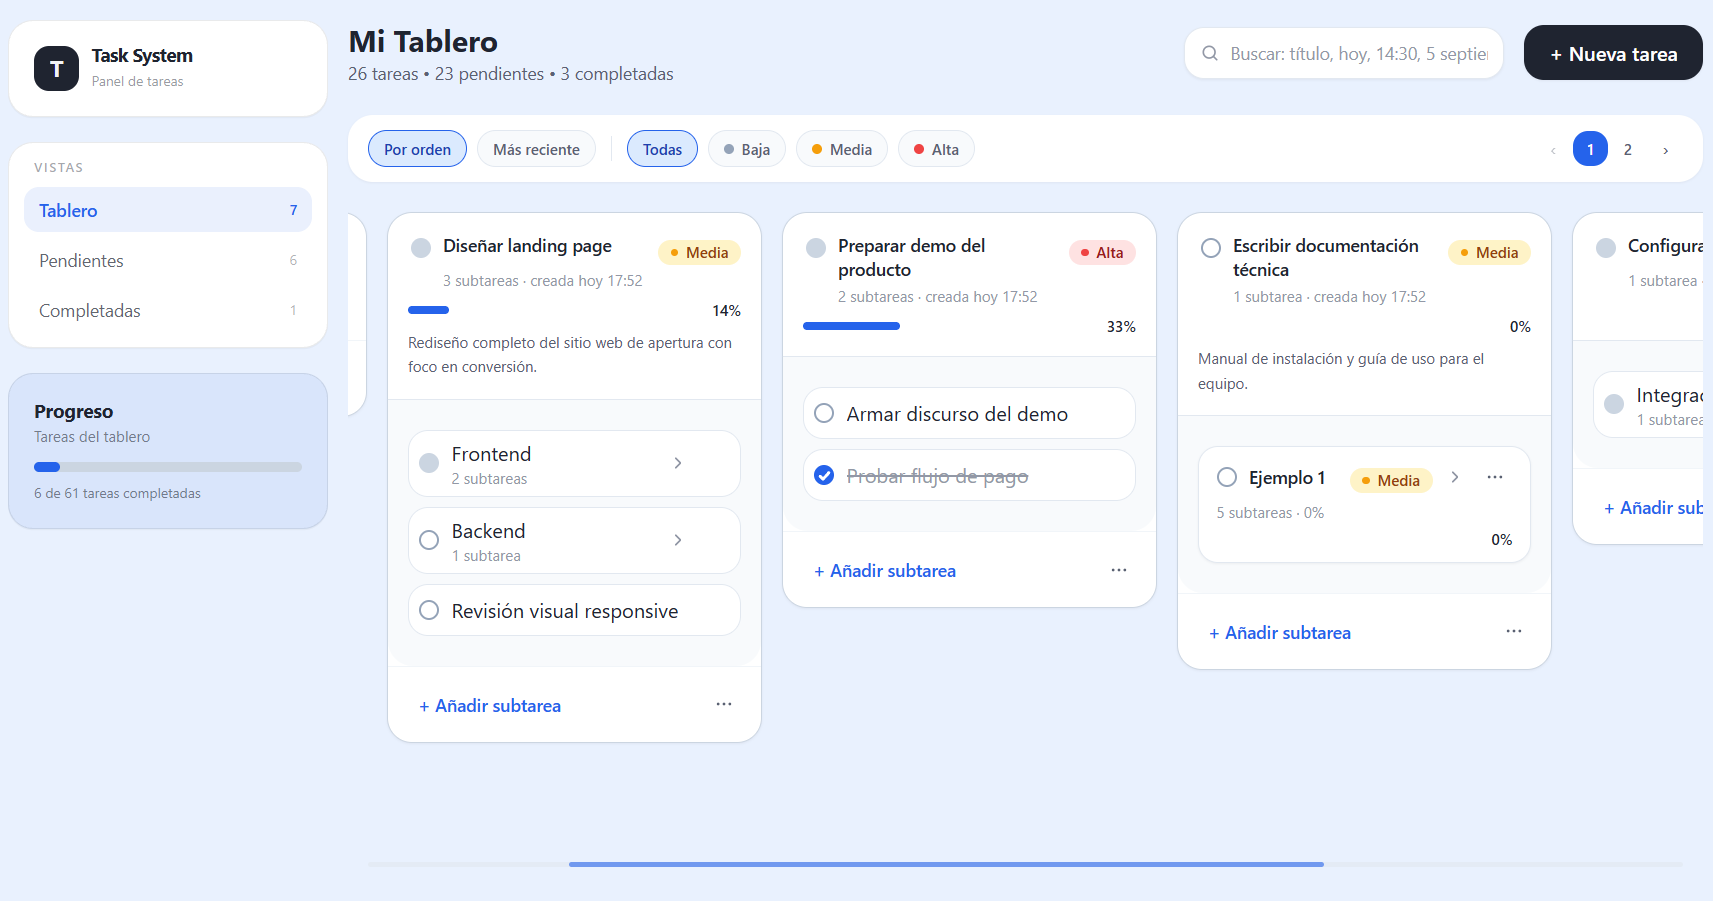
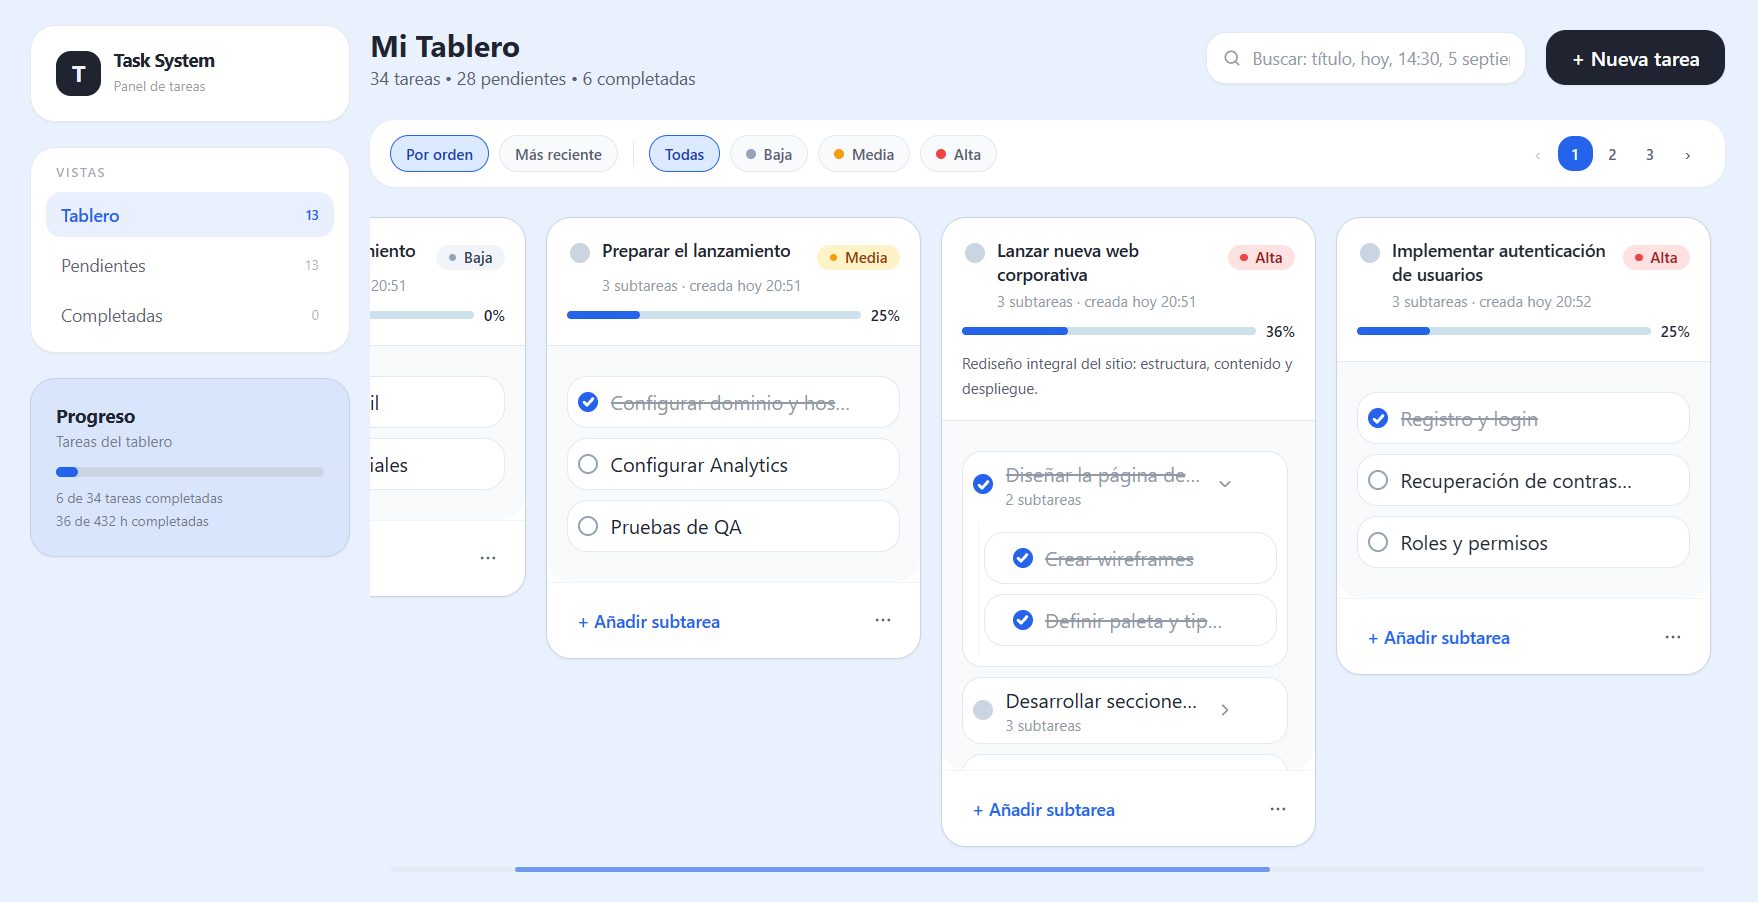
docs: README con capturas y docs alineados a estimaciones

diff --git a/docs/ai-usage.md b/docs/ai-usage.md
@@ -477,11 +477,10 @@ manuales de estilo y UX (prompt ejecutado por el desarrollador), que no
 se registran como prompts independientes: indicadores de estado más
 grandes y claros, ciclo de estado automático que promueve una tarea
 padre a "En progreso" cuando una subtarea se completa, scroll
-horizontal con arrastre del mouse, rediseño del resumen de esfuerzo con
-barras segmentadas, selects personalizados y ajustes de layout y color
-azulado en los contenedores de progreso. La estimación en horas se
-eliminó de la vista porque no resultó funcional para el uso real de la
-aplicación.
+horizontal con arrastre del mouse, selects personalizados y ajustes de
+layout y color azulado en los contenedores de progreso. La estimación
+en horas se mantiene en la vista porque el challenge exige reflejar la
+carga de trabajo a partir del campo de estimación.
 
 ### 9. Persistencia con PostgreSQL y Docker Compose
 
@@ -500,25 +499,48 @@ Implementá la persistencia con PostgreSQL y el montaje con Docker Compose para 
 10. NO commitees nada hasta que yo lo pida.
 ```
 
-### 10. Eliminación del resumen de esfuerzo en horas
+### 10. Reincorporación de estimaciones de esfuerzo
 
 ```
-La aplicación no maneja estimaciones de esfuerzo en horas: el avance se
-representa con la barra de progreso de cada tarea y su subárbol.
+El challenge exige que la aplicación ayude a entender la carga de
+trabajo usando el campo de estimación (esfuerzo en horas), considerando
+toda la jerarquía de subtareas, y combinando la cantidad de tareas y las
+horas estimadas.
 
-Quiero quitar el código muerto relacionado con horas del frontend:
+Quiero volver a manejar las estimaciones sin sobrecargar la UI:
 
-- Eliminar `frontend/src/components/EffortSummaryStrip.tsx`.
-- Eliminar `frontend/src/utils/effort.ts` y `frontend/src/utils/effort.test.ts`.
-- Eliminar la interfaz `EffortSummary` de `frontend/src/types/task.ts`.
-- Eliminar del backend los métodos no expuestos por la API
-  `getSubtreeEstimate` y `getEffortSummary` de
-  `backend/src/services/taskService.ts`, el tipo `EffortSummary` de
-  `backend/src/types/task.ts` y sus tests en `taskService.test.ts`.
-- Actualizar `docs/requirements.md` para que no exija resumen de
-  esfuerzo ni estimaciones visibles en la interfaz (mantener la
-  estimación como campo opcional e informativo).
-- Alinear `README.md` y `docs/architecture.md` con esta decisión.
+- Backend: restaurar `EffortSummary` (backend/src/types/task.ts) y los
+  métodos `getSubtreeEstimate` y `getEffortSummary`
+  (backend/src/services/taskService.ts) con sus tests.
+- Frontend: restaurar `EffortSummary` (frontend/src/types/task.ts) y
+  `frontend/src/utils/effort.ts` con sus tests.
+- Agregar el campo "Estimación (horas)" opcional en el formulario de
+  tareas (frontend/src/components/TaskForm.tsx) con validación no
+  negativa en tiempo real (incluye rechazar el "-" sin necesidad de
+  enviar el formulario).
+- Mostrar en el sidebar un único card de Progreso con barra única
+  ponderada (80% estimación en horas y 20% cantidad de tareas) y dos
+  líneas: "X de X tareas completadas" e "X de X h completadas".
+- En el detalle de una tarea mostrar "Estimación: Xh" con la suma de las
+  horas propias más las de todo su subárbol.
+- Alinear docs/requirements.md, docs/architecture.md y README.md.
+
+NO commitees nada hasta que yo lo pida.
+```
+
+### 11. Validación en tiempo real de título y estimación
+
+```
+Quiero validación en vivo en los formularios, similar a la del título:
+
+- Al hacer click en el campo de título y dejarlo vacío (blur) debe
+  mostrar "El título es obligatorio", y revalidar mientras se escribe.
+- Al escribir un "-" en la estimación debe aparecer en el momento
+  "La estimación no puede ser negativa". Se usa type="text" con
+  inputMode="decimal" porque type="number" descarta el "-" y nunca
+  dispara la validación en vivo.
+- Aplicado en TaskForm, CreateTaskModal (modal y agregador de
+  subtareas) e InlineSubtaskForm.
 
 NO commitees nada hasta que yo lo pida.
 ```

diff --git a/docs/architecture.md b/docs/architecture.md
@@ -54,8 +54,8 @@ traduce las acciones del usuario en llamadas HTTP.
 - Exponer una API REST CRUD para tareas.
 - Aplicar validación de datos (título obligatorio y no solo espacios,
   estimación no negativa, etc.).
-- Implementar la lógica de negocio: jerarquía de subtareas, orden y
-  eliminación en cascada.
+- Implementar la lógica de negocio: jerarquía de subtareas, orden,
+  eliminación en cascada y cálculos de estimaciones.
 - Orquestar las operaciones de persistencia a través de repositorios.
 - No depender directamente de la implementación concreta de
   PostgreSQL.
@@ -141,7 +141,7 @@ La separación entre capas sigue un flujo descendente:
   básica de entrada, invocan los métodos de los services y construyen
   las respuestas HTTP.
 - **Services:** contienen la lógica de negocio (validaciones, reglas
-  de jerarquía, eliminación en cascada).
+  de jerarquía, cálculo de estimaciones, eliminación en cascada).
   No conocen detalles de Express ni de PostgreSQL.
 - **Repositories:** abstraen el acceso a datos detrás de una interfaz.
   La lógica de negocio depende solo de esa interfaz.
@@ -163,9 +163,10 @@ La jerarquía se representa con el campo `parentTaskId`:
 El orden dentro de cada nivel jerárquico se maneja con el campo
 `position`.
 
-Las operaciones que requieren conocer la jerarquía completa (eliminar
-en cascada, construir el árbol para la vista) se resuelven en la capa
-de servicios a partir de los datos provistos por los repositorios.
+Las operaciones que requieren conocer la jerarquía completa (calcular
+estimaciones, eliminar en cascada, construir el árbol para la vista) se
+resuelven en la capa de servicios a partir de los datos provistos por
+los repositorios.
 
 ---
 
@@ -189,8 +190,9 @@ hacia PostgreSQL sin modificar la lógica de negocio.
 ## 10. Organización de los tests
 
 - **Tests unitarios de lógica de negocio (Vitest):** cubren las reglas
-  de los services: validación de tareas, jerarquía, eliminación de
-  descendientes, estados y prioridades.
+  de los services: validación de tareas, estimaciones, jerarquía,
+  cálculo recursivo de estimaciones, eliminación de descendientes,
+  estados y prioridades.
 - **Tests de API (Vitest + Supertest):** cubren los flujos principales
   de los endpoints REST contra la aplicación Express, usando
   preferiblemente el repositorio en memoria.

diff --git a/AGENTS.md b/AGENTS.md
@@ -1,0 +1,35 @@
+# AGENTS.md
+
+Guía para agentes de IA que trabajen en el repositorio Task System.
+
+## Proyecto
+
+Monorepo TypeScript con npm workspaces:
+
+- `backend/` — API REST (Node.js + Express + TypeScript): routes → controllers → services → repositories.
+- `frontend/` — app web (React + TypeScript + Tailwind CSS, Vite).
+- `docs/` — requisitos, arquitectura y registro de uso de IA.
+
+## Comandos (desde la raíz)
+
+- `npm install` — instala dependencias de ambos workspaces.
+- `npm run dev -w task-system-backend` — API local en http://localhost:3000.
+- `npm run dev -w task-system-frontend` — frontend local en http://localhost:5173.
+- `npm run build` — compila backend y frontend.
+- `npm test` — tests de backend y frontend.
+- `docker compose up` — todo en contenedores (frontend :8080, backend :3000, postgres :5432).
+
+## Convenciones
+
+- Identificadores, carpetas y archivos en inglés; UI y docs en español.
+- No agregar comentarios al código.
+- Backend: respetar la separación de capas y validar en services.
+- Persistencia: en memoria por defecto; con `DATABASE_URL` usa PostgreSQL.
+- `estimate` es la estimación de esfuerzo opcional en horas; el sistema
+  muestra el resumen de esfuerzo por estado considerando la jerarquía.
+- Mantener `docs/*.md` alineados con el código.
+
+## Git
+
+- No commitear ni pushear sin pedido explícito.
+- Mensajes de commit con prefijo convencional en español: `feat:`, `fix:`, `docs:`, `refactor:`.

diff --git a/docs/requirements.md b/docs/requirements.md
@@ -174,9 +174,18 @@ que las subtareas también serán eliminadas.
 
 # 9. Estimación
 
-Cada tarea puede tener una estimación individual, opcional y meramente
-informativa. La interfaz no muestra estimaciones en horas: el avance se
-representa mediante la barra de progreso de cada tarea y su subárbol.
+Cada tarea puede tener una estimación individual de esfuerzo, opcional y
+expresada en horas (número no negativo; `0` válido).
+
+La aplicación debe ayudar al equipo a entender su carga de trabajo
+mostrando un resumen del esfuerzo estimado:
+- cuánto trabajo aún no empezó (suma de estimaciones de tareas pendientes);
+- cuánto está en progreso (suma de estimaciones de tareas en progreso);
+- el esfuerzo estimado total.
+
+Estas sumas deben considerar toda la jerarquía de subtareas: el esfuerzo
+de una tarea incluye el de sus descendientes en cualquier nivel de
+profundidad.
 
 De los criterios del campo estimación se encarga la sección de campos
 básicos (número no negativo, `0` válido).
@@ -295,7 +304,7 @@ Se deben implementar tests unitarios para la lógica de negocio.
 Como mínimo se deben cubrir las reglas importantes relacionadas con:
 
 - Validación de tareas.
-- Estimaciones (validación del campo, no como cálculo de esfuerzo).
+- Estimaciones (validación del campo y cálculo de esfuerzo).
 - Jerarquía de tareas.
 - Eliminación de descendientes.
 - Estados.

diff --git a/README.md b/README.md
@@ -37,7 +37,7 @@ backend/
   src/
     controllers/   # manejo de peticiones HTTP y respuestas
     routes/        # definición de rutas de la API
-    services/      # lógica de negocio (jerarquía, orden)
+    services/      # lógica de negocio (jerarquía, orden, estimaciones)
     repositories/  # acceso a datos (interfaz + en memoria + PostgreSQL)
     models/        # entidades del dominio
     types/         # tipos TypeScript compartidos
